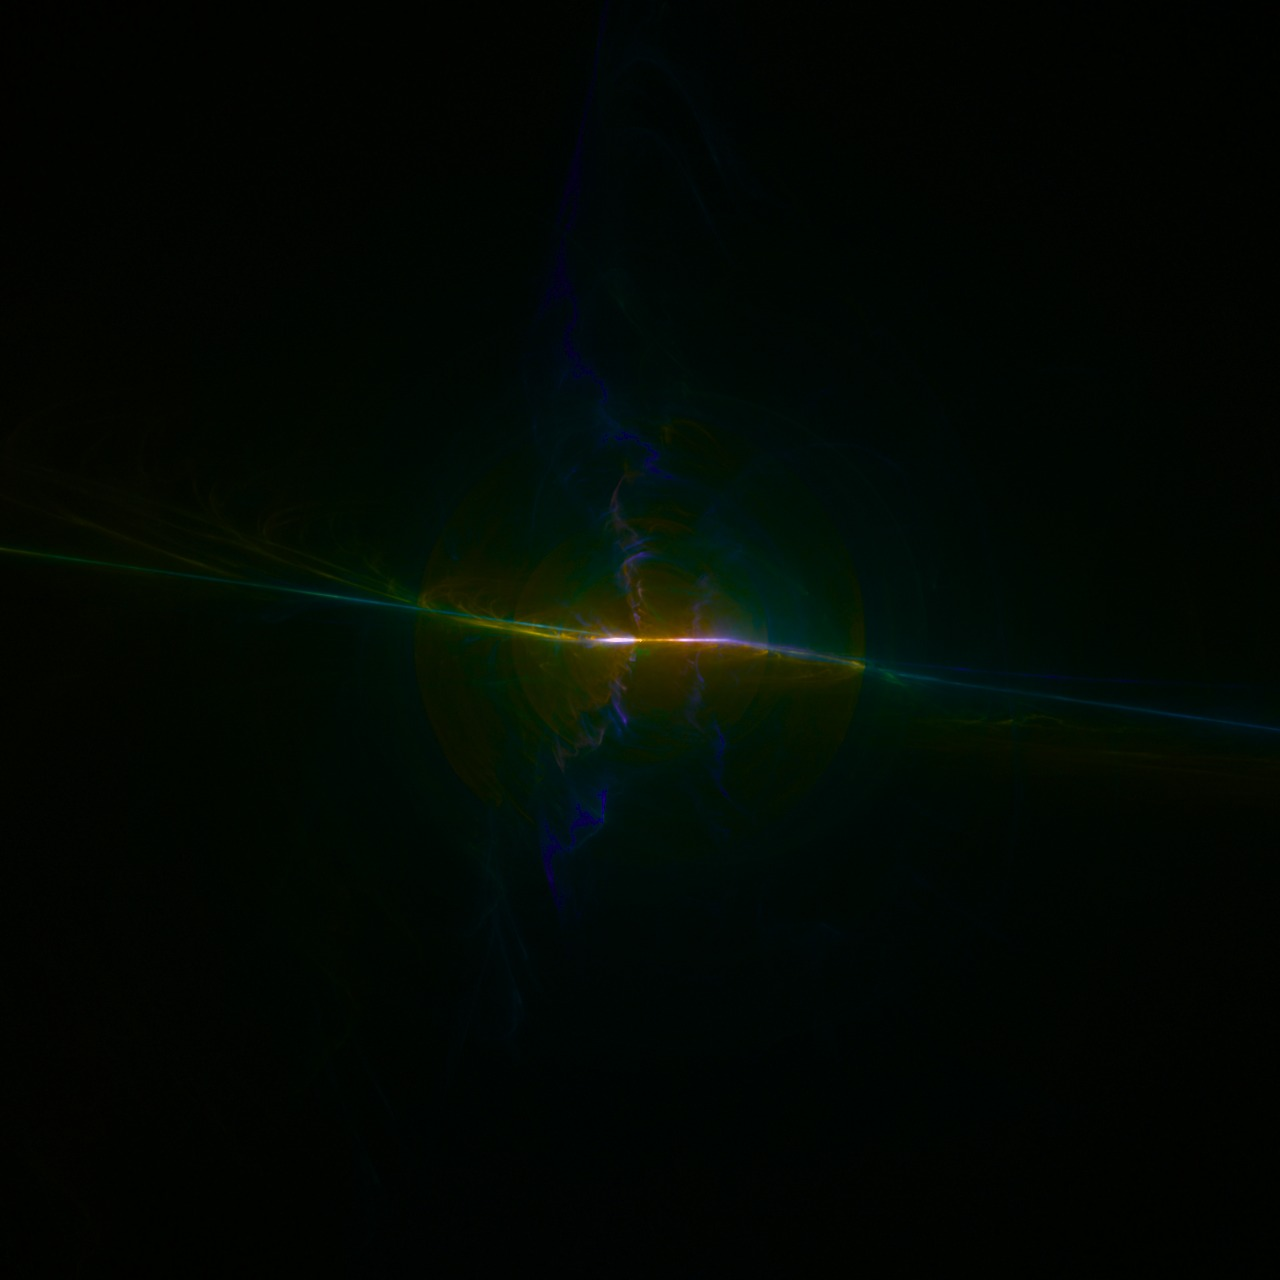
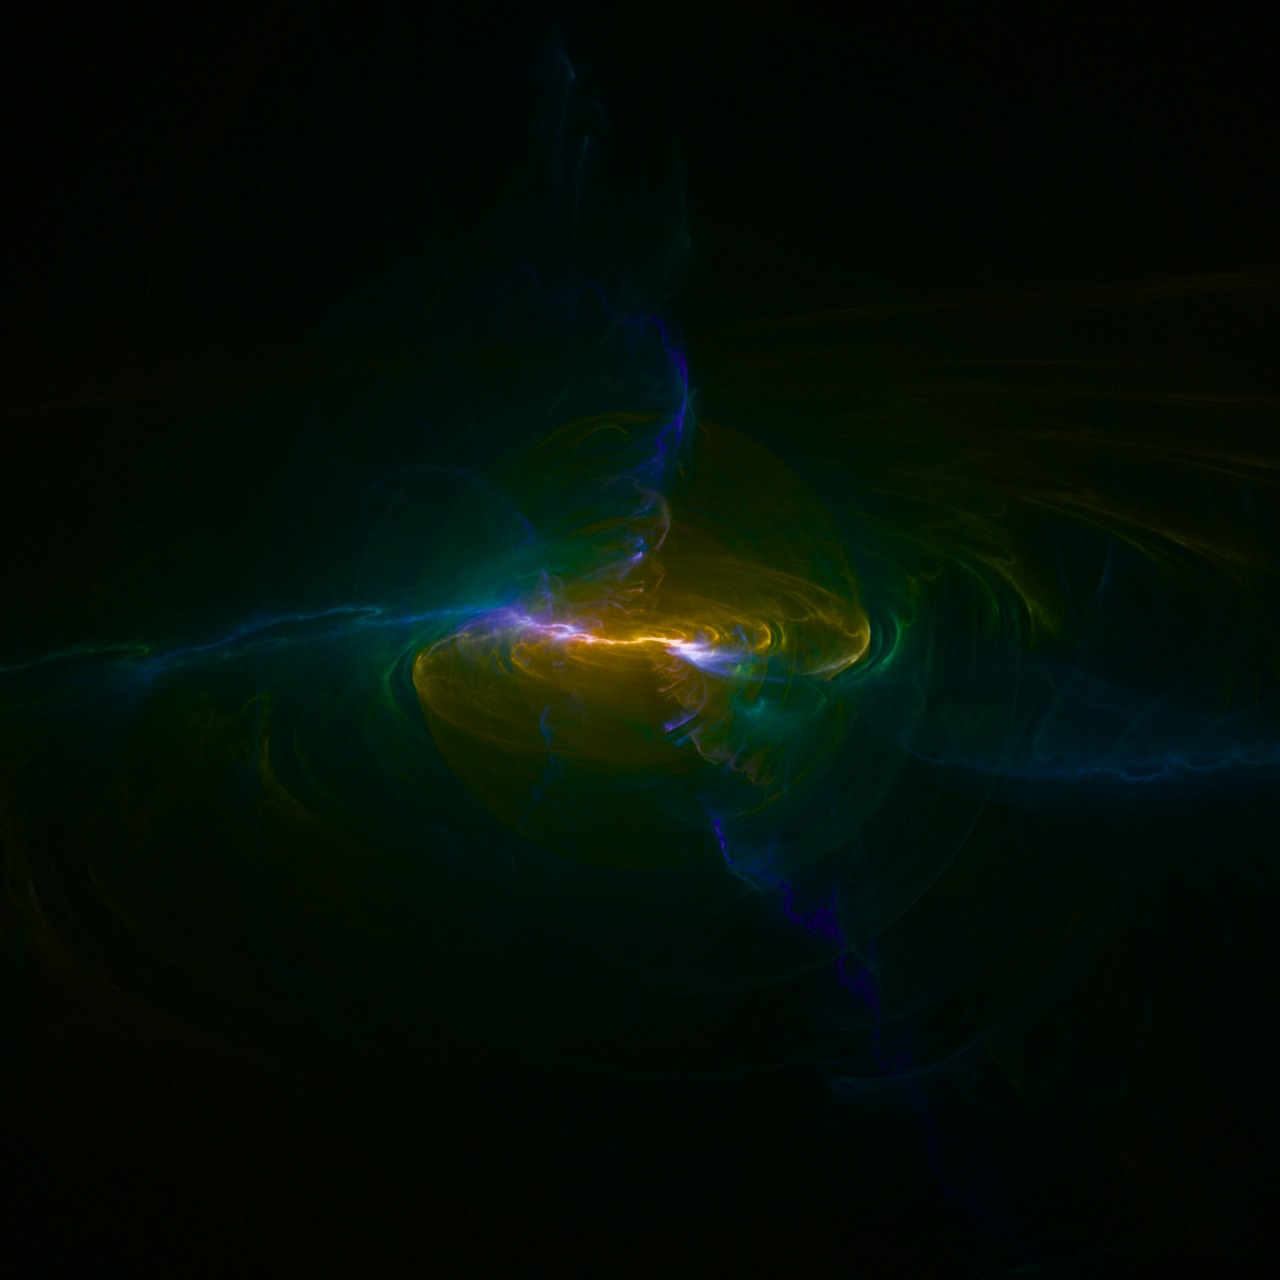
feat(landing): landing-only flame overrides (Nautilus + 3D Shells)
Add overrideFlame(base, { renderSettings?, finalTransform?, metadata? }) — a
landing-only override layered on top of an app example without forking its spec.
Uses the app's immutable-edit idiom (structurajs `produce`), deep-merging
camera/camera3D so only the differing props need to be supplied.

- NAUTILUS_LANDING (example40): user-tuned exposure/grade/camera + a final
  transform. SHELLS_LANDING (example33): tuned exposure/lighting + a camera3D
  framing (the app example defines none). Base examples untouched.
- ROSE_LANDING now uses overrideFlame too.
- Gallery pulls flames from LANDING_FLAMES by name (single source of truth), so
  overrides render in the gallery AND match the captured poster. Re-rendered
  example33/example40 posters.

pnpm check + landing build pass; both posters verified headed.

diff --git a/packages/landing/src/lib/flame.ts b/packages/landing/src/lib/flame.ts
@@ -1,3 +1,4 @@
+import { produce } from 'structurajs'
 import { example1 } from '@/flame/examples/example1'
 import { example29 } from '@/flame/examples/example29'
 import { example33 } from '@/flame/examples/example33'
@@ -11,19 +12,120 @@ import type { FlameDescriptor } from '@/flame/schema/flameSchema'
 export const APP_URL = 'https://chaos-master.com'
 
 /**
+ * A landing-only override layered on top of an app example WITHOUT forking it —
+ * supply only the props that differ (render settings, a final transform, metadata)
+ * and {@link overrideFlame} merges them onto a clone of the original. Keeps the
+ * shared `packages/app` example spec untouched while letting the landing tune
+ * exposure / camera / etc. per surface.
+ */
+export type FlameOverride = {
+  renderSettings?: Partial<FlameDescriptor['renderSettings']>
+  finalTransform?: FlameDescriptor['finalTransform']
+  metadata?: Partial<NonNullable<FlameDescriptor['metadata']>>
+}
+
+/** Merge an {@link FlameOverride} onto `base`, returning a new flame. Uses the
+ *  app's immutable-edit idiom (`produce` from structurajs — works on the frozen
+ *  example specs; no `unfreeze` needed since the landing only reads the result).
+ *  `renderSettings` merges shallowly except `camera`/`camera3D`, which deep-merge
+ *  so you can override a single field (e.g. just `camera3D.radius`). */
+export function overrideFlame(
+  base: FlameDescriptor,
+  o: FlameOverride,
+): FlameDescriptor {
+  return produce(base, (draft) => {
+    if (o.renderSettings) {
+      const { camera, camera3D, ...rest } = o.renderSettings
+      Object.assign(draft.renderSettings, rest)
+      if (camera) Object.assign(draft.renderSettings.camera, camera)
+      if (camera3D) Object.assign(draft.renderSettings.camera3D, camera3D)
+    }
+    if (o.finalTransform !== undefined) draft.finalTransform = o.finalTransform
+    if (o.metadata) Object.assign(draft.metadata, o.metadata)
+  })
+}
+
+/**
  * Landing render of the Enchanted Rose (example44) at high density-estimation
  * quality. The shared app example uses 0.6, which converges slowly / blurs during
  * movement; bump it here (landing-only) so it's crisp immediately like the earth.
- * Exported so the community card AND its poster render the exact same flame.
  */
-export const ROSE_LANDING: FlameDescriptor = {
-  ...example44,
+export const ROSE_LANDING: FlameDescriptor = overrideFlame(example44, {
+  renderSettings: { densityEstimationQuality: 1, estimatorCurve: 0.85 },
+})
+
+/**
+ * Landing render of the Nautilus Shell (example40) — user-tuned exposure /
+ * grade / camera framing + a final transform, layered on the app example.
+ */
+export const NAUTILUS_LANDING: FlameDescriptor = overrideFlame(example40, {
   renderSettings: {
-    ...example44.renderSettings,
+    exposure: -4.333,
+    skipIters: 30,
+    plotsPerChain: 16,
+    autoExposure3D: false,
+    autoExposure3DStrength: 1,
+    autoExposure3DRefRadius: 1.2940127090119309,
+    autoExposure3DBase: -2.832,
+    vibrancy: 0.9,
+    contrast: 2.65,
+    gamma: 4.38,
+    depthColorPower: 0.3,
+    lightPower: 0.09,
     densityEstimationQuality: 1,
-    estimatorCurve: 0.85,
+    estimatorCurve: 0.1,
+    camera: { zoom: 1, position: [0, 0], rotation: 0 },
+    camera3D: {
+      theta: 2.460917968749997,
+      phi: 1.4938085937500014,
+      radius: 0.8691350274605435,
+      target: [0, 0, 0],
+      fov: 55,
+      roll: 0,
+    },
   },
-}
+  finalTransform: {
+    a: 1,
+    b: 0,
+    c: 0,
+    d: -0.3656628131866455,
+    e: 0,
+    f: 1,
+    g: 0,
+    h: 0.05329771339893341,
+    i: 0,
+    j: 0,
+    k: 1,
+    l: 0,
+  },
+})
+
+/**
+ * Landing render of 3D Shells (example33) — user-tuned exposure / lighting +
+ * a camera3D framing (the app example defines no camera3D), layered on top.
+ */
+export const SHELLS_LANDING: FlameDescriptor = overrideFlame(example33, {
+  renderSettings: {
+    exposure: -3.392,
+    plotsPerChain: 16,
+    autoExposure3D: false,
+    autoExposure3DStrength: 1,
+    autoExposure3DRefRadius: 5,
+    autoExposure3DBase: 0,
+    depthColorPower: 0,
+    lightDirection: [-0.5, 0.5, -1],
+    lightPower: 0,
+    camera: { zoom: 1, position: [0, 0], rotation: 0 },
+    camera3D: {
+      theta: 2.6914843750000004,
+      phi: 1.3482572642948953,
+      radius: 4.928000000000001,
+      target: [0, 0, 0],
+      fov: 60,
+      roll: 0,
+    },
+  },
+})
 
 /** Static-poster path for a named landing flame (see `public/posters/`). */
 export function posterFor(name: string): string {
@@ -70,8 +172,8 @@ export function applyFlameRecipe(
 export const LANDING_FLAMES = {
   example1,
   example29,
-  example33,
-  example40,
+  example33: SHELLS_LANDING,
+  example40: NAUTILUS_LANDING,
   example45,
   rose: ROSE_LANDING,
   earth: example46,

diff --git a/packages/landing/src/components/GalleryFlames.tsx b/packages/landing/src/components/GalleryFlames.tsx
@@ -1,15 +1,9 @@
 import { createMemo, createSignal, For } from 'solid-js'
 import { ComputeGate, useComputeGate } from '@/contexts/ComputeGateContext'
-import { example1 } from '@/flame/examples/example1'
-import { example29 } from '@/flame/examples/example29'
-import { example33 } from '@/flame/examples/example33'
-import { example40 } from '@/flame/examples/example40'
-import { example45 } from '@/flame/examples/example45'
 import { useIntersectionObserver } from '@/utils/useIntersectionObserver'
-import { posterFor, variationSummary } from '../lib/flame'
+import { LANDING_FLAMES, posterFor, variationSummary } from '../lib/flame'
 import OpenInApp from './OpenInApp'
 import PosterFlame from './PosterFlame'
-import type { FlameDescriptor } from '@/flame/schema/flameSchema'
 
 /**
  * Gallery grid as a single Solid island so every live preview shares one
@@ -18,41 +12,23 @@ import type { FlameDescriptor } from '@/flame/schema/flameSchema'
  * converges (and whenever WebGPU is unavailable / has failed); the live flame
  * mounts only once scrolled into view and unmounts when scrolled away, so
  * concurrent GPU contexts stay bounded.
+ *
+ * Flames are pulled from LANDING_FLAMES by name (the single source of truth), so
+ * any landing-only overrides (e.g. NAUTILUS_LANDING) render here AND match the
+ * captured poster of the same name.
  */
 type Plate = {
-  flame: FlameDescriptor
-  /** Poster name under public/posters/ (see LANDING_FLAMES in lib/flame). */
-  poster: string
+  name: keyof typeof LANDING_FLAMES
   cls: string
   title: string
 }
 
 const PLATES: Plate[] = [
-  {
-    flame: example1,
-    poster: 'example1',
-    cls: 'wide span8',
-    title: 'First Light',
-  },
-  {
-    flame: example29,
-    poster: 'example29',
-    cls: 'tall span4',
-    title: 'Aurora Drift',
-  },
-  {
-    flame: example33,
-    poster: 'example33',
-    cls: 'span4',
-    title: 'Ember Lattice',
-  },
-  { flame: example40, poster: 'example40', cls: 'span4', title: 'Tidal Bloom' },
-  {
-    flame: example45,
-    poster: 'example45',
-    cls: 'span4',
-    title: 'Spectrum Swirl',
-  },
+  { name: 'example1', cls: 'wide span8', title: 'First Light' },
+  { name: 'example29', cls: 'tall span4', title: 'Aurora Drift' },
+  { name: 'example33', cls: 'span4', title: 'Ember Lattice' },
+  { name: 'example40', cls: 'span4', title: 'Tidal Bloom' },
+  { name: 'example45', cls: 'span4', title: 'Spectrum Swirl' },
 ]
 
 // Cursor-following 3D tilt for the gallery plates (mouse only; skipped under
@@ -82,6 +58,7 @@ function untiltPlate(e: PointerEvent) {
 }
 
 function PlatePreview(props: { plate: Plate }) {
+  const flame = () => LANDING_FLAMES[props.plate.name]
   const [container, setContainer] = createSignal<HTMLElement>()
   const intersection = useIntersectionObserver(container)
   const isVisible = createMemo(() => intersection()?.isIntersecting ?? false)
@@ -109,8 +86,8 @@ function PlatePreview(props: { plate: Plate }) {
       }}
     >
       <PosterFlame
-        flame={props.plate.flame}
-        poster={posterFor(props.plate.poster)}
+        flame={flame()}
+        poster={posterFor(props.plate.name)}
         posterClass="plate-canvas"
         inView={() => allowed() || isVisible()}
         quality={hovered() ? 0.97 : 0.9}
@@ -119,13 +96,11 @@ function PlatePreview(props: { plate: Plate }) {
       />
       <div class="meta">
         <div>
-          <div class="t">
-            {props.plate.flame.metadata?.name ?? props.plate.title}
-          </div>
-          <div class="v">{variationSummary(props.plate.flame)}</div>
+          <div class="t">{flame().metadata?.name ?? props.plate.title}</div>
+          <div class="v">{variationSummary(flame())}</div>
         </div>
       </div>
-      <OpenInApp flame={props.plate.flame} />
+      <OpenInApp flame={flame()} />
     </div>
   )
 }
